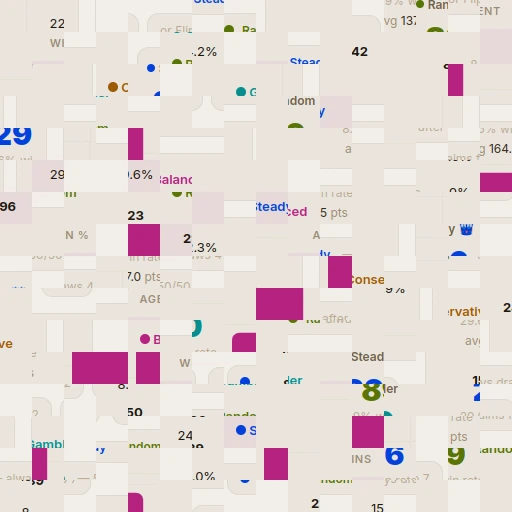
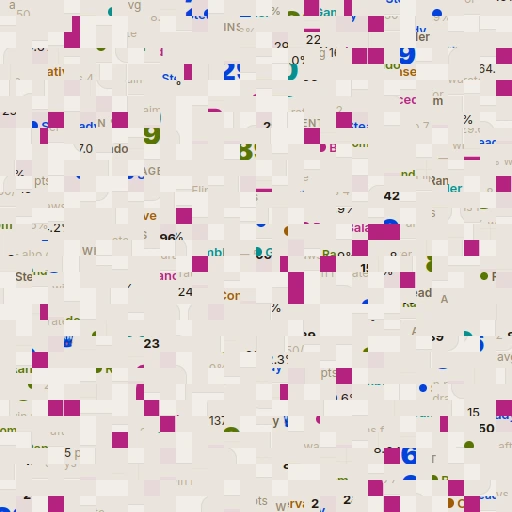
version 0.6

diff --git a/encoder-test.html b/encoder-test.html
@@ -103,7 +103,7 @@
 
     <script>
         const IMG_SIZE = 512;
-        const BLOCK_SIZE = 32;
+        const BLOCK_SIZE = 16;
         const GRID_DIM = IMG_SIZE / BLOCK_SIZE;
         const TOTAL_BLOCKS = GRID_DIM * GRID_DIM;
 
@@ -144,9 +144,9 @@
                     ctx.fillStyle = 'hsl(' + hue + ', 70%, 50%)';
                     ctx.fillRect(c * BLOCK_SIZE, r * BLOCK_SIZE, BLOCK_SIZE, BLOCK_SIZE);
                     ctx.fillStyle = '#fff';
-                    ctx.font = 'bold 20px Arial';
+                    ctx.font = 'bold 9px Arial';
                     ctx.textAlign = 'center';
-                    ctx.fillText(String(r * GRID_DIM + c), c * BLOCK_SIZE + BLOCK_SIZE / 2, r * BLOCK_SIZE + BLOCK_SIZE / 2 + 7);
+                    ctx.fillText(String(r * GRID_DIM + c), c * BLOCK_SIZE + BLOCK_SIZE / 2, r * BLOCK_SIZE + BLOCK_SIZE / 2 + 3);
                 }
             }
             ctx.fillStyle = '#e94560';

diff --git a/js/app.js b/js/app.js
@@ -37,7 +37,7 @@ const monsterDB = [
 const ticketCosts = { cheap: 50, normal: 200, expensive: 1000 };
 
 const IMG_SIZE = 512;
-const BLOCK_SIZE = 32;
+const BLOCK_SIZE = 16;
 const GRID_DIM = IMG_SIZE / BLOCK_SIZE;
 const TOTAL_BLOCKS = GRID_DIM * GRID_DIM;
 